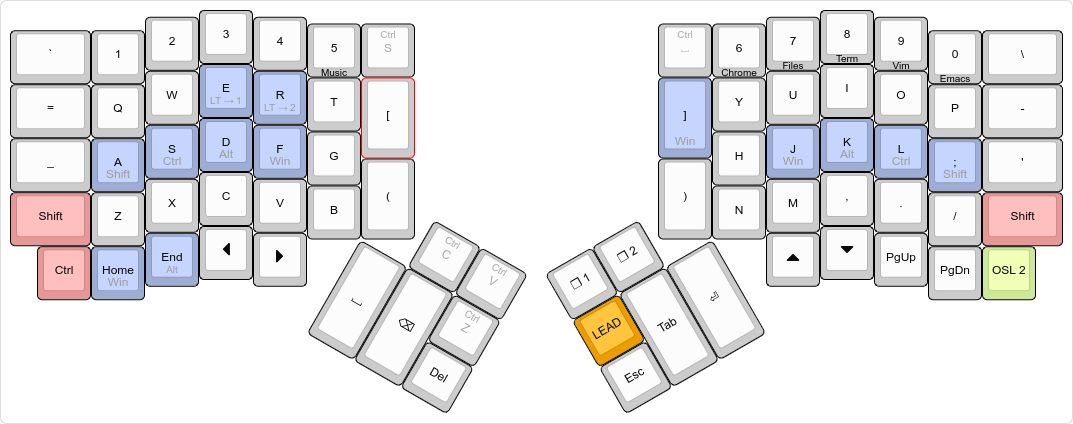
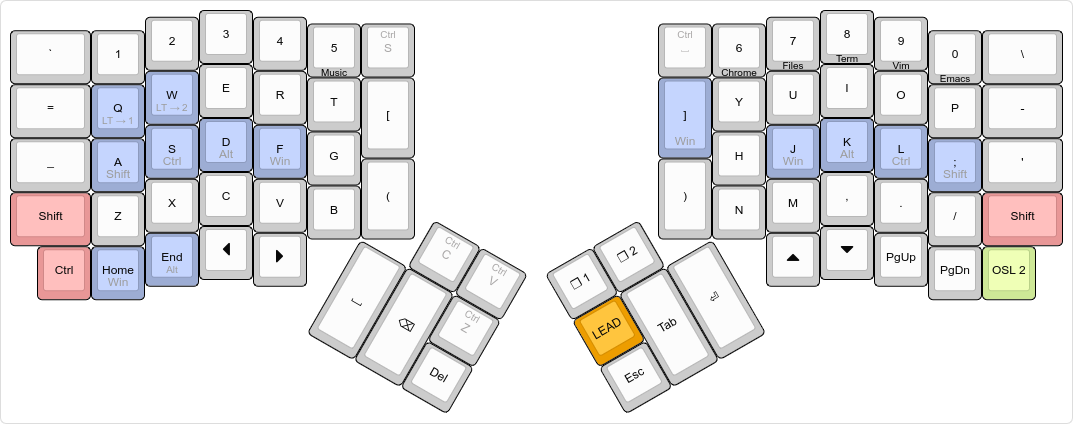
Moved layer toggles to Q and W.

Changed region(s): [[0.0615, 0.1533, 0.3075, 0.3373], [0.3383, 0.3679, 0.3691, 0.3986]]

diff --git a/keymap.c b/keymap.c
@@ -37,7 +37,7 @@ const uint16_t PROGMEM keymaps[][MATRIX_ROWS][MATRIX_COLS] = {
   [BASE] = KEYMAP(
     // left hand
     KC_GRAVE, KC_1, KC_2, KC_3, KC_4, KC_5, LCTL(KC_S),
-    KC_EQUAL, KC_Q, KC_W, LT(1, KC_E), LT(2, KC_R), KC_T, KC_LBRACKET,
+    KC_EQUAL, LT(1, KC_Q), LT(2, KC_W), KC_E, KC_R, KC_T, KC_LBRACKET,
     KC_UNDS, SFT_T(KC_A), CTL_T(KC_S), ALT_T(KC_D), GUI_T(KC_F), KC_G,
     OSM(MOD_LSFT), KC_Z, KC_X, KC_C, KC_V, KC_B, KC_LPRN,
     OSM(MOD_LCTL), GUI_T(KC_HOME), ALT_T(KC_END), KC_LEFT, KC_RIGHT,
